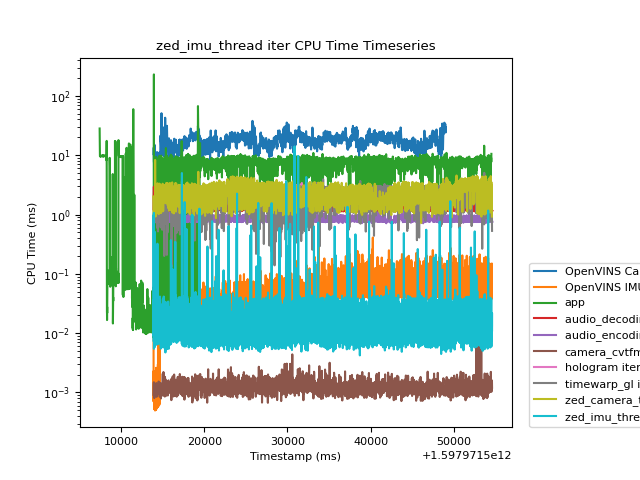
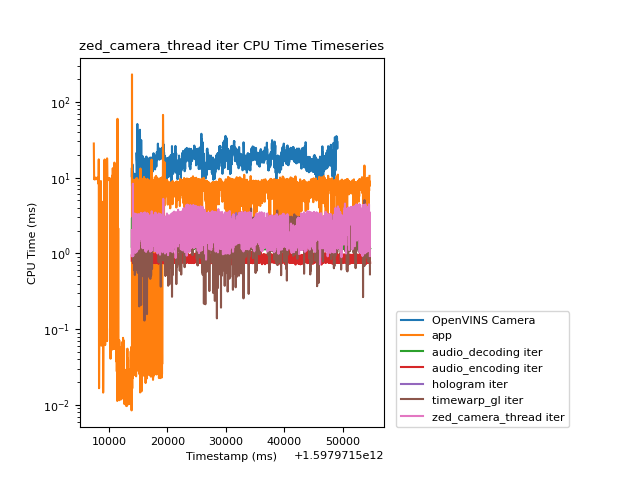
Slight change to graph

diff --git a/analysis/main.py b/analysis/main.py
@@ -495,7 +495,7 @@ def get_data(metrics_path: Path) -> Tuple[Any]:
 
         return ts, summaries, switchboard_topic_stop, thread_ids, warnings_log
 
-FILE_NAME = "desktop-materials"
+FILE_NAME = "desktop-sponza"
 
 @ch_cache.decor(ch_cache.FileStore.create("../metrics-" + FILE_NAME))
 def get_data_cached(metrics_path: Path) -> Tuple[Any]:
@@ -589,7 +589,7 @@ with ch_time_block.ctx("generating combined timeseries", print_start=False):
     plt.rcParams.update({'font.size': 8})
     # plot the same data on both axes
     ax = f.gca()
-    ignore_list = ['app_gpu1', 'app_gpu2', 'timewarp_gl gpu', 'hologram', 'opencv', 'Runtime']
+    ignore_list = ['app_gpu1', 'app_gpu2', 'timewarp_gl gpu', 'hologram', 'opencv', 'Runtime', 'camera_cvtfmt', 'zed_imu_thread iter', 'OpenVINS IMU', 'camera_cvtfmt']
     for i, account_name in enumerate(account_names):
         if account_name in ignore_list:
             continue
@@ -603,7 +603,7 @@ with ch_time_block.ctx("generating combined timeseries", print_start=False):
         ax.set(ylabel='CPU Time (ms)')
     plt.xlabel("Timestamp (ms)")
     plt.legend(bbox_to_anchor=(1.04,0), loc="lower left", borderaxespad=0)
-    plt.subplots_adjust(right=0.8)
+    plt.subplots_adjust(right=0.6)
     plt.yscale("log")
     plt.savefig(output_path / "overlayed.png")
     # import IPython; IPython.embed()
